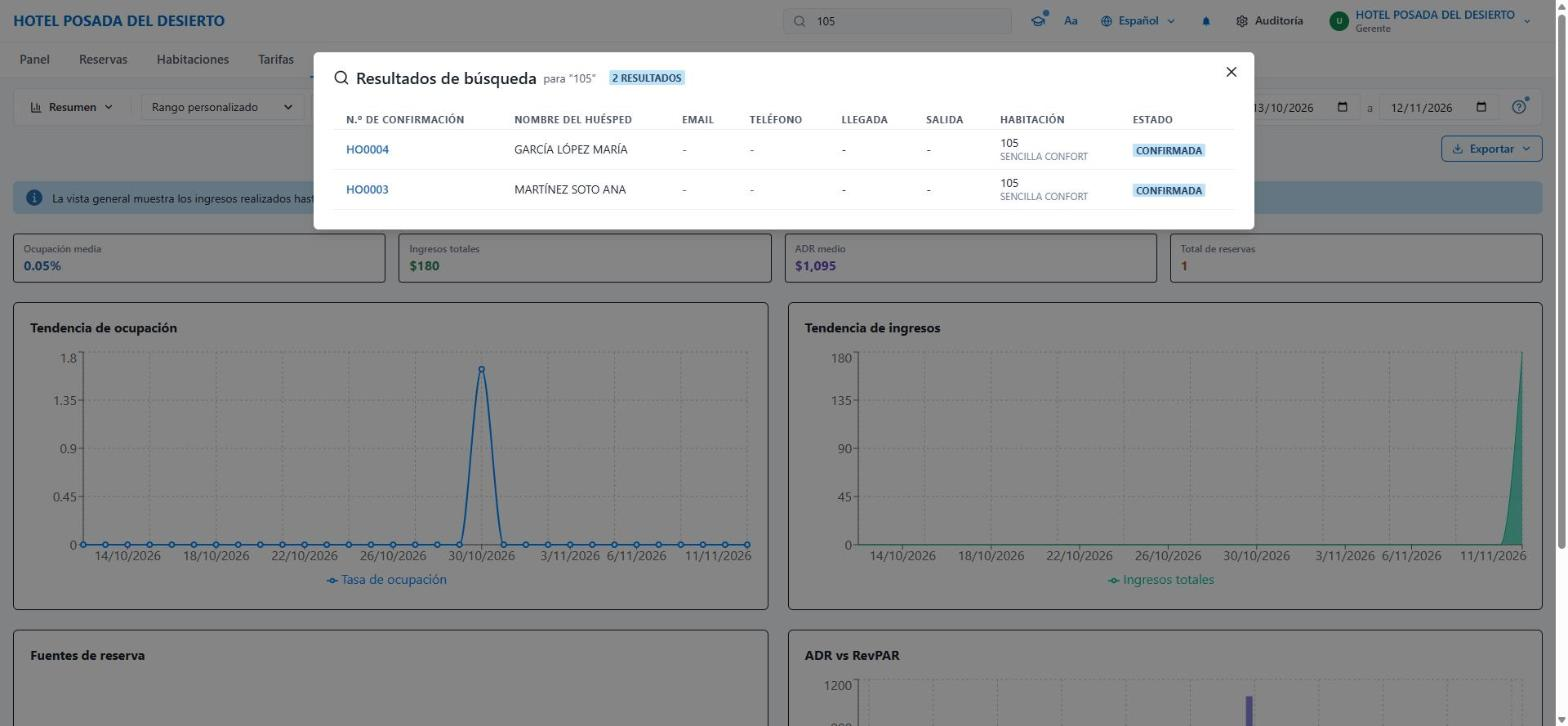
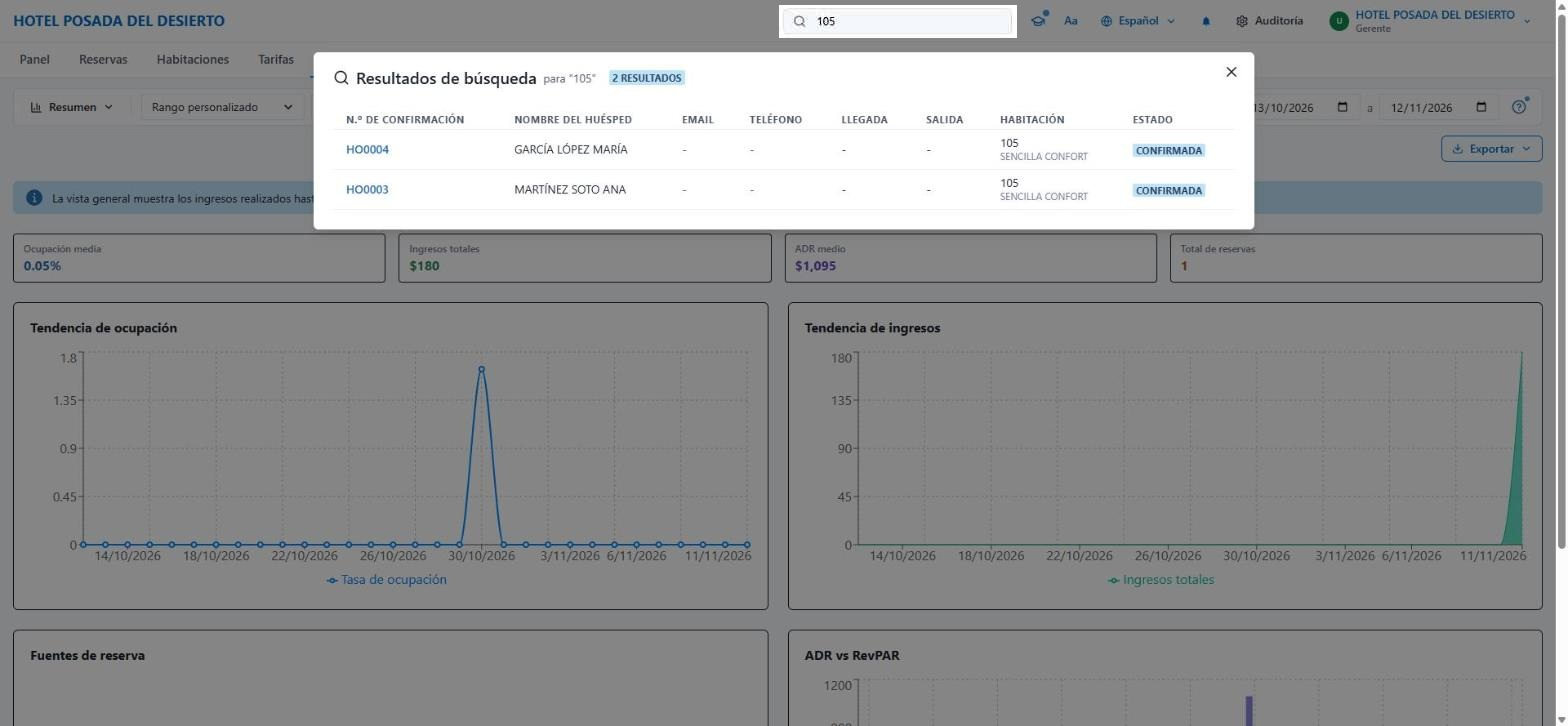
Globos en los marcadores, separadores, Tapechart (Calendario de reservas) y ajustes de texto del tema 1

Changed region(s): [[0.5, 0.0, 0.6562, 0.0606]]

diff --git a/01-recorrido.html b/01-recorrido.html
@@ -6,6 +6,7 @@
 <title>Recorrido por FrontDesko · Capacitación</title>
 <link rel="icon" href="img/logo.svg">
 <link rel="stylesheet" href="css/estilos.css">
+<script src="js/anotaciones.js" defer></script>
 <script src="js/visor.js" defer></script>
 </head>
 <body>
@@ -44,7 +45,7 @@
     <h2>Lo que vas a aprender</h2>
     <ul class="aprenderas">
       <li>Dónde ver cómo va el día: ocupación, llegadas y salidas.</li>
-      <li>Qué es el <b>Tapechart</b> y cómo se lee.</li>
+      <li>Qué es el <b>Tapechart (Calendario de reservas)</b> y cómo se lee.</li>
       <li>Cómo se empieza una reserva nueva.</li>
       <li>Dónde están tarifas, limpieza e informes.</li>
       <li>Cómo buscar cualquier reserva o huésped.</li>
@@ -58,23 +59,25 @@
     <article class="paso">
       <div class="num">1</div>
       <div class="cuerpo">
-        <h3 class="titulo-paso">El Panel: el día de un vistazo</h3>
-        <p>Es la primera pantalla al entrar (pestaña <span class="pestana-ui">Panel</span>). Arriba tienes los números del día en directo.</p>
+        <h3 class="titulo-paso">El Panel principal</h3>
+        <p>Es la primera pantalla al entrar (pestaña <span class="pestana-ui">Panel</span>).</p>
         <figure class="captura">
           <a href="img/recorrido/01-panel.jpg" target="_blank"><div class="lienzo">
             <img src="img/recorrido/01-panel.jpg" alt="Pantalla Panel de FrontDesko con tarjetas de ocupación, ingresos, llegadas, salidas y limpieza" loading="lazy">
-            <span class="marca" style="left:6.1%;top:23.3%" data-n="1"></span>
-            <span class="marca" style="left:55.2%;top:23.3%" data-n="2"></span>
-            <span class="marca" style="left:79.8%;top:23.3%" data-n="3"></span>
-            <span class="marca" style="left:9.2%;top:38%" data-n="4"></span>
+            <span class="marca" style="left:2.2%;top:7.6%" data-n="1"></span>
+            <span class="marca" style="left:6.1%;top:23.3%" data-n="2"></span>
+            <span class="marca" style="left:55.2%;top:23.3%" data-n="3"></span>
+            <span class="marca" style="left:79.8%;top:23.3%" data-n="4"></span>
+            <span class="marca" style="left:9.2%;top:38%" data-n="5"></span>
           </div></a>
           <figcaption>Pantalla Panel.</figcaption>
         </figure>
         <ul class="leyenda">
-          <li><span class="n">1</span><span><b>Ocupación actual</b>: porcentaje de habitaciones ocupadas hoy.</span></li>
-          <li><span class="n">2</span><span><b>Llegadas de hoy</b>: huéspedes que llegan hoy y cuántos check-ins faltan.</span></li>
-          <li><span class="n">3</span><span><b>Salidas de hoy</b>: huéspedes que se van hoy y cuántos check-outs faltan.</span></li>
-          <li><span class="n">4</span><span><b>Estado de limpieza</b>: cuántas habitaciones están limpias y cuántas sucias.</span></li>
+          <li><span class="n">1</span><span><b>Pestaña Panel</b>: haz clic aquí para volver a esta pantalla desde cualquier parte de FrontDesko.</span></li>
+          <li><span class="n">2</span><span><b>Ocupación actual</b>: porcentaje de habitaciones ocupadas hoy.</span></li>
+          <li><span class="n">3</span><span><b>Llegadas de hoy</b>: huéspedes que llegan hoy y cuántos check-ins faltan.</span></li>
+          <li><span class="n">4</span><span><b>Salidas de hoy</b>: huéspedes que se van hoy y cuántos check-outs faltan.</span></li>
+          <li><span class="n">5</span><span><b>Estado de limpieza</b>: cuántas habitaciones están limpias y cuántas sucias.</span></li>
         </ul>
         <p class="turno"><b>En tu turno:</b> al empezar, mira estas tarjetas. En 10 segundos sabes cuánta gente llega, cuánta se va y si hay habitaciones por limpiar.</p>
       </div>
@@ -84,17 +87,17 @@
     <article class="paso">
       <div class="num">2</div>
       <div class="cuerpo">
-        <h3 class="titulo-paso">Reservas: el Tapechart</h3>
-        <p>En la pestaña <span class="pestana-ui">Reservas</span> está el <b>Tapechart</b>, el calendario de habitaciones. Aquí se hace casi todo el trabajo de recepción.</p>
+        <h3 class="titulo-paso">Reservas: el Tapechart (Calendario de reservas)</h3>
+        <p>En la pestaña <span class="pestana-ui">Reservas</span> está el <b>Tapechart (Calendario de reservas)</b>. Aquí se hace casi todo el trabajo de recepción.</p>
         <figure class="captura">
           <a href="img/recorrido/02-tapechart.jpg" target="_blank"><div class="lienzo">
-            <img src="img/recorrido/02-tapechart.jpg" alt="Tapechart con habitaciones en filas, noches en columnas y una reserva como barra roja" loading="lazy">
+            <img src="img/recorrido/02-tapechart.jpg" alt="Tapechart (Calendario de reservas) con habitaciones en filas, noches en columnas y una reserva como barra roja" loading="lazy">
             <span class="marca" style="left:6.6%;top:7.6%" data-n="1"></span>
             <span class="marca" style="left:2.7%;top:26.2%" data-n="2"></span>
             <span class="marca" style="left:51.3%;top:19.7%" data-n="3"></span>
             <span class="marca" style="left:35.3%;top:26%" data-n="4"></span>
           </div></a>
-          <figcaption>Pestaña Reservas (Tapechart).</figcaption>
+          <figcaption>Pestaña Reservas: Tapechart (Calendario de reservas).</figcaption>
         </figure>
         <ul class="leyenda">
           <li><span class="n">1</span><span>Pestaña <b>Reservas</b>.</span></li>
@@ -112,10 +115,10 @@
       <div class="num">3</div>
       <div class="cuerpo">
         <h3 class="titulo-paso">Una reserva nueva en dos clics</h3>
-        <p>En el Tapechart, haz clic en una <b>noche libre</b> (o arrastra sobre varias noches). Se abre la ventana <b>Reserva rápida</b> con la habitación y las fechas ya puestas.</p>
+        <p>En el Tapechart (Calendario de reservas), haz clic en una <b>noche libre</b> (o arrastra sobre varias noches). Se abre la ventana <b>Reserva rápida</b> con la habitación y las fechas ya puestas.</p>
         <figure class="captura">
           <a href="img/recorrido/03-reserva-rapida.jpg" target="_blank"><div class="lienzo">
-            <img src="img/recorrido/03-reserva-rapida.jpg" alt="Ventana Reserva rápida abierta sobre el Tapechart para la habitación SENC-115" loading="lazy">
+            <img src="img/recorrido/03-reserva-rapida.jpg" alt="Ventana Reserva rápida abierta sobre el Tapechart (Calendario de reservas) para la habitación SENC-115" loading="lazy">
             <span class="marca" style="left:44.6%;top:14.9%" data-n="1"></span>
             <span class="marca" style="left:44%;top:41.7%" data-n="2"></span>
             <span class="marca" style="left:58.7%;top:60.2%" data-n="3"></span>
@@ -129,7 +132,7 @@
           <li><span class="n">3</span><span>El <b>Total</b> de la estancia, calculado solo.</span></li>
           <li><span class="n">4</span><span><span class="boton-ui">✓ Crear</span> guarda la reserva. Arriba del todo escribes el <b>nombre del huésped</b>, su correo y teléfono.</span></li>
         </ul>
-        <div class="nota ojo"><p><b>Solo para mirar.</b> Si pulsas <b>Crear</b>, la reserva se guarda de verdad. Para cerrar sin guardar usa <b>✕</b> o <b>Cancelar</b>. El paso a paso completo está en el tema «Crear una reserva sin cita previa».</p></div>
+        <div class="nota ojo"><p><b>Cuidado:</b> el botón <b>Crear</b> guarda una reserva real. Si solo estás practicando, cierra la ventana con <b>✕</b> o <b>Cancelar</b>.</p></div>
         <p class="turno"><b>En tu turno:</b> es la forma más rápida de registrar a un cliente que llega <b>sin reserva</b> (walk-in).</p>
       </div>
     </article>
@@ -202,7 +205,7 @@
         <ul class="leyenda">
           <li><span class="n">1</span><span>Elige <b>qué informe</b> ver.</span></li>
           <li><span class="n">2</span><span>Elige las <b>fechas</b>: Hoy, Últimos 7 días, Últimos 30 días, Este mes o un rango propio.</span></li>
-          <li><span class="n">3</span><span><b>Exportar</b> descarga el informe en Excel o PDF.</span></li>
+          <li><span class="n">3</span><span><b>Exportar</b> descarga el informe en Excel o PDF. Puedes imprimir el archivo.</span></li>
         </ul>
       </div>
     </article>
@@ -228,16 +231,6 @@
         <p class="turno"><b>En tu turno:</b> cuando un huésped llega al mostrador, escribe su apellido aquí. Es lo más rápido.</p>
       </div>
     </article>
-
-    <!-- 8. Seguir -->
-    <article class="paso">
-      <div class="num">8</div>
-      <div class="cuerpo">
-        <h3 class="titulo-paso">Sigue practicando en el Centro de aprendizaje</h3>
-        <p>En el <b>birrete 🎓</b> (arriba a la derecha) hay una <b>tarea guiada práctica para cada proceso</b>: check-in, check-out, cobros… Ahí también salen los <b>consejos</b> y las <b>novedades</b> de FrontDesko.</p>
-        <div class="nota bien"><p><b>Siguiente práctica recomendada:</b> «Crear una reserva sin cita previa».</p></div>
-      </div>
-    </article>
   </section>
 
   <section>
@@ -245,7 +238,7 @@
     <p>Las pestañas de arriba y para qué sirve cada una. Las marcadas en naranja son las que más vas a usar en recepción.</p>
     <div class="mapa">
       <div class="item clave"><span class="pestana-ui">Panel</span><p>Resumen del día: ocupación, ingresos, llegadas, salidas y limpieza.</p></div>
-      <div class="item clave"><span class="pestana-ui">Reservas</span><p>El Tapechart. Crear reservas, check-in, check-out. Aquí pasas casi todo el turno.</p></div>
+      <div class="item clave"><span class="pestana-ui">Reservas</span><p>El Tapechart (Calendario de reservas). Crear reservas, check-in, check-out. Aquí pasas casi todo el turno.</p></div>
       <div class="item"><span class="pestana-ui">Habitaciones</span><p>Las habitaciones del hotel y su estado.</p></div>
       <div class="item"><span class="pestana-ui">Tarifas</span><p>Precios por noche que llegan a la web y a las OTA.</p></div>
       <div class="item"><span class="pestana-ui">Informes</span><p>Ocupación, ingresos, pagos, impuestos, auditoría nocturna. Exporta a Excel o PDF.</p></div>
@@ -264,7 +257,7 @@
     <p>Cómo pasa una habitación de un huésped al siguiente, y quién mueve cada paso:</p>
     <ol class="flujo">
       <li><b>Limpia y libre</b>Lista para vender<br><span class="quien limpieza">Limpieza</span></li>
-      <li><b>Reservada</b>Barra en el Tapechart<br><span class="quien recepcion">Recepción</span></li>
+      <li><b>Reservada</b>Barra en el Tapechart (Calendario de reservas)<br><span class="quien recepcion">Recepción</span></li>
       <li><b>Check-in</b>El huésped entra<br><span class="quien recepcion">Recepción</span></li>
       <li><b>Check-out</b>El huésped se va<br><span class="quien recepcion">Recepción</span></li>
       <li><b>Por limpiar</b>Cambia sola<br><span class="quien sistema">FrontDesko</span></li>
@@ -277,7 +270,7 @@
     <h2>Palabras que vas a oír</h2>
     <div class="tarjeta">
       <dl class="glosario">
-        <dt>Tapechart</dt><dd>El calendario de habitaciones de la pestaña Reservas. Filas = habitaciones, columnas = noches.</dd>
+        <dt>Tapechart (Calendario de reservas)</dt><dd>El calendario de habitaciones de la pestaña Reservas. Filas = habitaciones, columnas = noches.</dd>
         <dt>Walk-in</dt><dd>Cliente que llega sin reserva previa.</dd>
         <dt>Sobreventa</dt><dd>Dos reservas en la misma habitación y la misma noche. Hay que resolverla moviendo una de las dos.</dd>
         <dt>OTA / canales</dt><dd>Agencias de viaje en línea donde se vende el hotel (por ejemplo, Booking o Expedia).</dd>
@@ -290,10 +283,10 @@
   <section>
     <h2>Repaso rápido</h2>
     <p>Intenta responder antes de abrir cada respuesta.</p>
-    <details><summary>¿En qué pestaña se hace casi todo el trabajo de recepción?</summary>En <b>Reservas</b>, donde está el Tapechart.</details>
-    <details><summary>En el Tapechart, ¿qué es una fila y qué es una columna?</summary>Cada <b>fila</b> es una habitación y cada <b>columna</b> es una noche.</details>
-    <details><summary>En el Tapechart, el número de una habitación sale en naranja. ¿Qué significa?</summary>Que está <b>por limpiar</b>. En verde significa limpia.</details>
-    <details><summary>Llega un cliente sin reserva. ¿Cuál es la forma más rápida de registrarlo?</summary>En el Tapechart, haz clic en una noche libre (o arrastra sobre varias). Se abre <b>Reserva rápida</b> con la habitación y las fechas ya puestas.</details>
+    <details><summary>¿En qué pestaña se hace casi todo el trabajo de recepción?</summary>En <b>Reservas</b>, donde está el Tapechart (Calendario de reservas).</details>
+    <details><summary>En el Tapechart (Calendario de reservas), ¿qué es una fila y qué es una columna?</summary>Cada <b>fila</b> es una habitación y cada <b>columna</b> es una noche.</details>
+    <details><summary>En el Tapechart (Calendario de reservas), el número de una habitación sale en naranja. ¿Qué significa?</summary>Que está <b>por limpiar</b>. En verde significa limpia.</details>
+    <details><summary>Llega un cliente sin reserva. ¿Cuál es la forma más rápida de registrarlo?</summary>En el Tapechart (Calendario de reservas), haz clic en una noche libre (o arrastra sobre varias). Se abre <b>Reserva rápida</b> con la habitación y las fechas ya puestas.</details>
     <details><summary>Un huésped te da solo su teléfono. ¿Cómo encuentras su reserva?</summary>Escríbelo en la barra <b>Buscar reservas…</b> de arriba y pulsa Enter. Funciona desde cualquier pantalla.</details>
   </section>
 

diff --git a/css/estilos.css b/css/estilos.css
@@ -78,6 +78,8 @@ code { background: var(--naranja-claro); padding: 0 5px; border-radius: 4px; fon
 /* ---------- Secciones ---------- */
 main.contenedor { padding-top: 36px; padding-bottom: 64px; }
 section { margin: 0 0 52px; }
+/* Separadores horizontales entre secciones y entre pasos */
+main > section + section:not(.tarjeta), .paso + .paso { border-top: 1px solid #ddd2c3; padding-top: 40px; }
 h2 { font-size: 26px; line-height: 1.25; margin: 0 0 16px; color: var(--carbon); }
 h2::before { content: ""; display: block; width: 36px; height: 4px; border-radius: 2px; background: var(--naranja); margin-bottom: 10px; }
 h3 { font-size: 20px; margin: 0 0 8px; color: var(--carbon); }
@@ -107,7 +109,7 @@ h3 { font-size: 20px; margin: 0 0 8px; color: var(--carbon); }
 .paso .turno b { color: var(--salvia); }
 .leyenda { list-style: none; padding: 0; margin: 14px 0 0; display: grid; gap: 8px; }
 .leyenda li { display: grid; grid-template-columns: 26px 1fr; gap: 10px; align-items: start; }
-.leyenda .n { width: 24px; height: 24px; border-radius: 50%; background: var(--naranja); color: #fff; font-weight: 800; font-size: 13px; display: grid; place-items: center; margin-top: 2px; }
+.leyenda .n, .globo .n { width: 24px; height: 24px; border-radius: 50%; background: var(--naranja); color: #fff; font-weight: 800; font-size: 13px; display: grid; place-items: center; margin-top: 2px; }
 
 /* Imitan elementos de FrontDesko (se mantienen en azul como en el sistema) */
 .boton-ui { display: inline-block; background: #1a73d9; color: #fff; font-weight: 600; font-size: 14px; padding: 1px 10px; border-radius: 6px; white-space: nowrap; }
@@ -128,9 +130,31 @@ h3 { font-size: 20px; margin: 0 0 8px; color: var(--carbon); }
   transform: translate(-50%, -50%);
   border: 3px solid var(--naranja); border-radius: 50%;
   box-shadow: 0 0 0 4px rgba(239, 154, 17, .28);
-  pointer-events: none;
   animation: latido 1.8s ease-in-out infinite;
 }
+.marca[data-texto] { cursor: help; }
+.marca[data-texto]:hover { animation: none; border-color: var(--naranja-fuerte); box-shadow: 0 0 0 6px rgba(239, 154, 17, .4); }
+
+/* Globo de las anotaciones (js/anotaciones.js) */
+.globo {
+  position: fixed; z-index: 200; pointer-events: none;
+  max-width: min(320px, calc(100vw - 16px));
+  display: grid; grid-template-columns: 24px 1fr; gap: 10px; align-items: start;
+  padding: 12px 14px; border-radius: 10px;
+  background: var(--blanco); color: var(--texto);
+  border: 1px solid var(--borde); border-top: 3px solid var(--naranja);
+  box-shadow: 0 10px 30px rgba(43, 39, 36, .2);
+  font-size: 14px; line-height: 1.45;
+  animation: globo-entrar .15s ease-out;
+}
+.globo[hidden] { display: none; }
+.globo::after {
+  content: ""; position: absolute; left: var(--flecha, 50%); top: 100%; transform: translateX(-50%);
+  border: 7px solid transparent; border-top-color: var(--blanco);
+}
+.globo.debajo::after { top: auto; bottom: 100%; border-top-color: transparent; border-bottom-color: var(--naranja); }
+@keyframes globo-entrar { from { opacity: 0; transform: translateY(4px); } }
+@media (prefers-reduced-motion: reduce) { .globo { animation: none; } }
 .marca::after {
   content: attr(data-n);
   position: absolute; right: -14px; top: -14px;
@@ -238,7 +262,7 @@ footer img { width: 22px; height: 22px; }
 @media print {
   body { background: #fff; font-size: 12pt; }
   .marca-hotel { position: static; box-shadow: none; }
-  .marca-hotel nav, .no-imprimir, .visor { display: none !important; }
+  .marca-hotel nav, .no-imprimir, .visor, .globo { display: none !important; }
   .cabecera { background: none; color: #000; padding: 0 0 12px; border-bottom: 2px solid var(--naranja); }
   .cabecera p.lead, .migas { color: #333; }
   .ficha { border-color: #999; }

diff --git a/js/anotaciones.js b/js/anotaciones.js
@@ -1,0 +1,57 @@
+// Anotaciones de las capturas.
+// Al pasar el ratón por un marcador (.marca data-n="N") se muestra un globo con el texto
+// del punto N de la .leyenda del mismo paso. El texto se escribe una sola vez, en la leyenda.
+// Funciona en la página y dentro del visor (js/visor.js), porque el texto viaja en data-texto.
+(function () {
+  // 1. Copiar a cada marcador el texto de su punto de la leyenda.
+  document.querySelectorAll('.captura').forEach(function (figura) {
+    var bloque = figura.closest('.paso, section');
+    var leyenda = bloque && bloque.querySelector('.leyenda');
+    if (!leyenda) return;
+    var textos = {};
+    leyenda.querySelectorAll('li').forEach(function (li) {
+      var n = li.querySelector('.n');
+      if (n && n.nextElementSibling) textos[n.textContent.trim()] = n.nextElementSibling.innerHTML;
+    });
+    figura.querySelectorAll('.marca').forEach(function (m) {
+      if (textos[m.dataset.n]) m.dataset.texto = textos[m.dataset.n];
+    });
+  });
+
+  // 2. Un único globo para toda la página.
+  var globo = document.createElement('div');
+  globo.className = 'globo';
+  globo.setAttribute('role', 'tooltip');
+  globo.hidden = true;
+  document.body.appendChild(globo);
+
+  function mostrar(m) {
+    globo.innerHTML = '<span class="n">' + m.dataset.n + '</span><span>' + m.dataset.texto + '</span>';
+    globo.hidden = false;
+    var r = m.getBoundingClientRect();
+    var g = globo.getBoundingClientRect();
+    var margen = 8;
+    var izquierda = Math.min(Math.max(margen, r.left + r.width / 2 - g.width / 2), innerWidth - g.width - margen);
+    var arriba = r.top - g.height - 12;
+    var debajo = arriba < margen;          // sin sitio arriba: se muestra debajo del marcador
+    if (debajo) arriba = r.bottom + 12;
+    globo.classList.toggle('debajo', debajo);
+    globo.style.left = izquierda + 'px';
+    globo.style.top = arriba + 'px';
+    globo.style.setProperty('--flecha', (r.left + r.width / 2 - izquierda) + 'px');
+  }
+
+  function ocultar() { globo.hidden = true; }
+
+  document.addEventListener('pointerover', function (e) {
+    if (e.pointerType !== 'mouse') return;
+    var m = e.target.closest('.marca[data-texto]');
+    if (m) mostrar(m);
+  });
+  document.addEventListener('pointerout', function (e) {
+    if (e.target.closest('.marca')) ocultar();
+  });
+  addEventListener('scroll', ocultar, true);
+  addEventListener('wheel', ocultar, { passive: true });
+  addEventListener('pointerdown', ocultar);
+})();

diff --git a/index.html b/index.html
@@ -37,7 +37,7 @@
     <div class="texto">
       <span class="listo">Empieza aquí</span>
       <h2 style="margin:8px 0 6px">Recorrido: qué hace FrontDesko</h2>
-      <p style="margin:0;color:var(--texto-suave)">Las partes principales del sistema: Panel, Tapechart, reserva rápida, tarifas, limpieza, informes y búsqueda.</p>
+      <p style="margin:0;color:var(--texto-suave)">Las partes principales del sistema: Panel, Tapechart (Calendario de reservas), reserva rápida, tarifas, limpieza, informes y búsqueda.</p>
     </div>
     <a class="boton" href="01-recorrido.html">Abrir tutorial →</a>
   </section>
@@ -53,7 +53,7 @@
         <h3>Recepción: lo básico</h3>
         <ul>
           <li>Leer el Panel<span class="pronto">Próximamente</span></li>
-          <li>Entender el Tapechart<span class="pronto">Próximamente</span></li>
+          <li>Entender el Tapechart (Calendario de reservas)<span class="pronto">Próximamente</span></li>
           <li>Crear una reserva sin cita previa<span class="pronto">Próximamente</span></li>
           <li>Hacer el check-in de un huésped<span class="pronto">Próximamente</span></li>
           <li>Hacer el check-out de un huésped<span class="pronto">Próximamente</span></li>

diff --git a/CLAUDE.md b/CLAUDE.md
@@ -12,6 +12,7 @@ Cada página es un tutorial corto con **capturas reales** de FrontDesko, pasos n
 ## Reglas de redacción
 - Español neutro, trato de **tú**, frases cortas. Una acción por paso.
 - Botones y pestañas en **negrita** y con el texto exacto de la pantalla (`**Siguiente**`, `**Reservas**`).
+- Escribe siempre **«Tapechart (Calendario de reservas)»**, nunca «Tapechart» solo: es el nombre que usa FrontDesko, pero el equipo no lo conoce.
 - Explica la palabra técnica la primera vez (Tapechart, folio, OTA, sobreventa...). Si se repite, va al glosario.
 - Cada paso responde: **qué ves**, **qué haces** y **para qué te sirve en el turno**.
 - Avisa de lo que puede confundir (p. ej. pasos que el recorrido salta solo).
@@ -39,7 +40,21 @@ Cada página es un tutorial corto con **capturas reales** de FrontDesko, pasos n
 - Imágenes en `img/<tema>/NN-descripcion.jpg`.
 - Marcadores sobre capturas: `<span class="marca" style="left:X%;top:Y%" data-n="1"></span>` dentro de `.captura`, con X/Y en porcentaje del tamaño de la imagen (coordenada px ÷ ancho/alto de la captura).
 - Debe imprimirse bien (hay estilos `@media print`).
-- Cada página de tutorial incluye `<script src="js/visor.js" defer></script>` en el `<head>`: al hacer clic en una `.captura` se abre un visor a pantalla completa con zoom (rueda, pellizco, clic, botones +/−) que conserva los marcadores.
+- Cada página de tutorial incluye en el `<head>`, en este orden:
+  ```html
+  <script src="js/anotaciones.js" defer></script>
+  <script src="js/visor.js" defer></script>
+  ```
+  - `visor.js`: al hacer clic en una `.captura` se abre un visor a pantalla completa con zoom (rueda, pellizco, clic, botones +/−) que conserva los marcadores.
+  - `anotaciones.js`: al pasar el ratón por un marcador sale un globo con su explicación, también dentro del visor.
+- **Anotaciones (marcador + leyenda):** el texto se escribe una sola vez, en la `.leyenda` del mismo `.paso` (o `section`). El marcador `data-n="2"` muestra el punto de la leyenda cuyo `<span class="n">2</span>` coincide. Por eso cada marcador debe tener su punto en la leyenda con el mismo número, con esta forma:
+  ```html
+  <span class="marca" style="left:55.2%;top:23.3%" data-n="2"></span>
+  ...
+  <ul class="leyenda">
+    <li><span class="n">2</span><span><b>Título</b>: descripción.</span></li>
+  </ul>
+  ```
 
 ## Cómo se toman las capturas
 - **Capturas de la interfaz real, NO del recorrido guiado.** Los recorridos y tareas guiadas del Centro de aprendizaje de FrontDesko se usan solo como **guía**: para saber qué temas, pantallas y botones hay que enseñar y en qué orden. Después se navega a esas pantallas y se captura la interfaz normal, sin las ventanas ni el oscurecido del recorrido.
